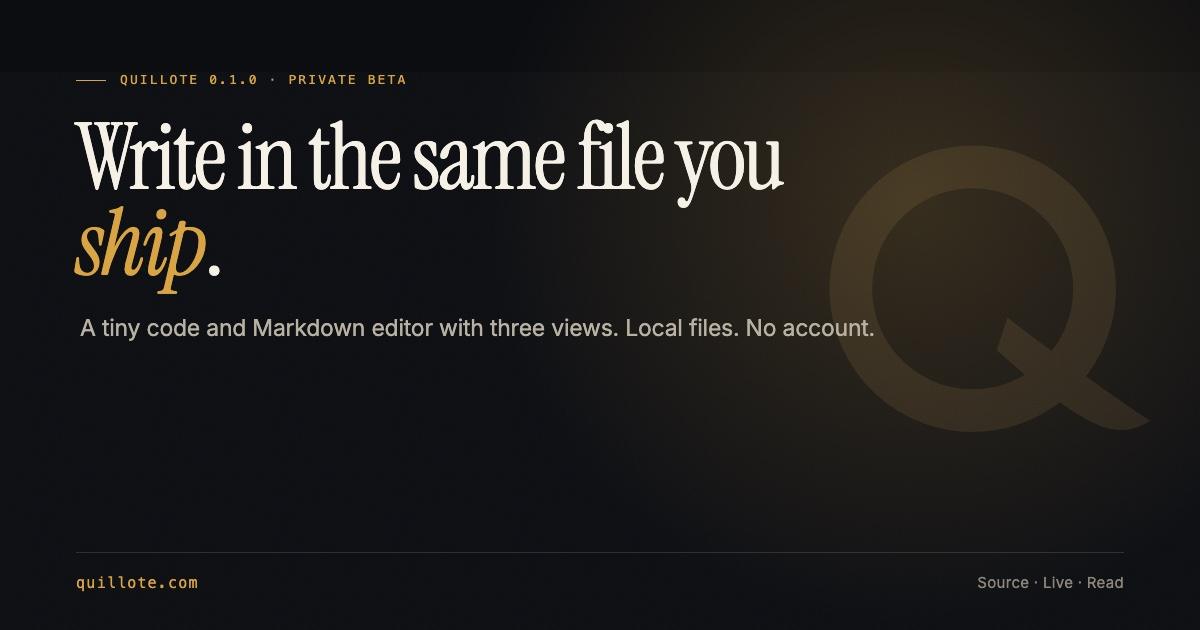
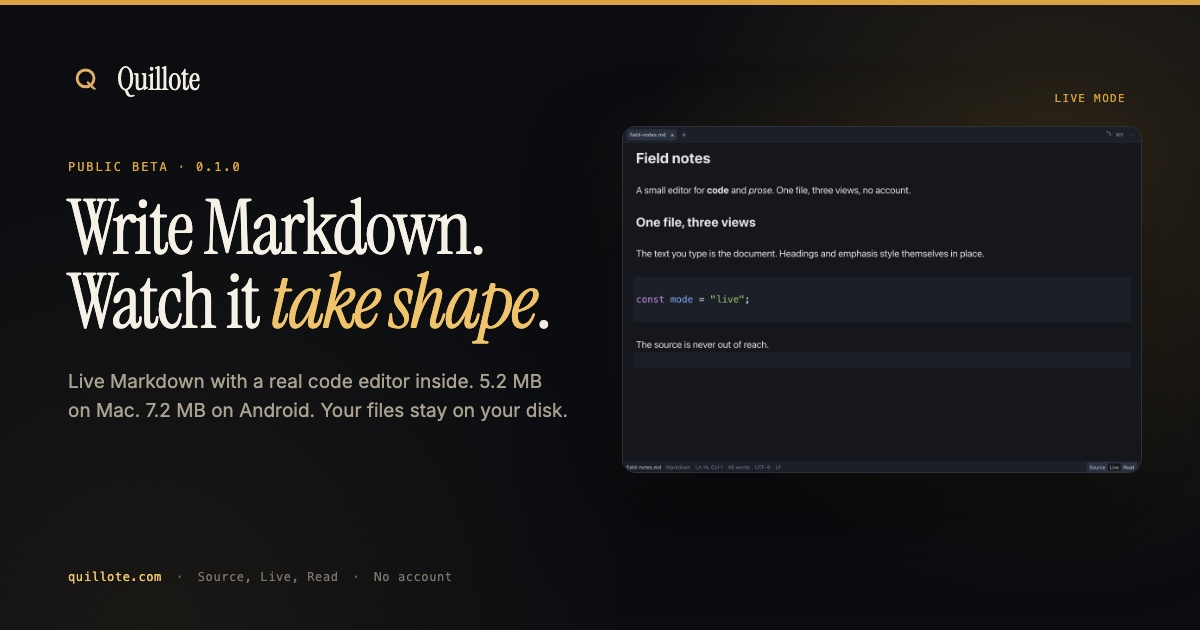
site: Live-first launch, universal DMG and signed APK

diff --git a/changelog/index.html b/changelog/index.html
@@ -4,14 +4,14 @@
   <meta charset="utf-8">
   <meta name="viewport" content="width=device-width, initial-scale=1, viewport-fit=cover">
   <title>Changelog: Quillote</title>
-  <meta name="description" content="Quillote changelog: the 0.1.0 private beta, the three views, themes, mobile file model and the size budgets.">
+  <meta name="description" content="Quillote changelog: the 0.1.0 public beta, the three views, themes, mobile file model and the size budgets.">
   <link rel="canonical" href="https://quillote.com/changelog/">
   <meta name="theme-color" content="#0b0d11">
   <meta name="color-scheme" content="dark">
   <meta property="og:type" content="website">
   <meta property="og:site_name" content="Quillote">
   <meta property="og:title" content="Changelog: Quillote">
-  <meta property="og:description" content="The 0.1.0 private beta and what comes next.">
+  <meta property="og:description" content="The 0.1.0 public beta and what comes next.">
   <meta property="og:url" content="https://quillote.com/changelog/">
   <meta property="og:image" content="https://quillote.com/assets/img/og.jpg">
   <meta name="twitter:card" content="summary_large_image">
@@ -23,7 +23,7 @@
   <link rel="preload" href="../assets/fonts/inter-var.woff2" as="font" type="font/woff2" crossorigin>
   <link rel="stylesheet" href="../assets/css/site.css">
   <script type="application/ld+json">
-  {"@context":"https://schema.org","@graph":[{"@type":"WebPage","@id":"https://quillote.com/changelog/","url":"https://quillote.com/changelog/","name":"Changelog: Quillote","description":"The 0.1.0 private beta and what comes next.","isPartOf":{"@id":"https://quillote.com/#website"},"dateModified":"2026-10-23"},{"@type":"BreadcrumbList","itemListElement":[{"@type":"ListItem","position":1,"name":"Quillote","item":"https://quillote.com/"},{"@type":"ListItem","position":2,"name":"Changelog","item":"https://quillote.com/changelog/"}]}]}
+  {"@context":"https://schema.org","@graph":[{"@type":"WebPage","@id":"https://quillote.com/changelog/","url":"https://quillote.com/changelog/","name":"Changelog: Quillote","description":"The 0.1.0 public beta and what comes next.","isPartOf":{"@id":"https://quillote.com/#website"},"dateModified":"2026-10-23"},{"@type":"BreadcrumbList","itemListElement":[{"@type":"ListItem","position":1,"name":"Quillote","item":"https://quillote.com/"},{"@type":"ListItem","position":2,"name":"Changelog","item":"https://quillote.com/changelog/"}]}]}
   </script>
 </head>
 <body>
@@ -48,7 +48,7 @@
       <div class="page-hero">
         <p class="label"><span>Notes</span> Changelog</p>
         <h1>What changed.</h1>
-        <p class="lead">Small releases, plainly written. The beta is 0.1.0; the next stop is signing and the first public build.</p>
+        <p class="lead">Small releases, plainly written. 0.1.0 is the first public beta. Signing and the stores are next.</p>
         <p class="page-updated">Last updated 23 October 2026</p>
       </div>
 
@@ -56,8 +56,8 @@
         <li class="changelog-item">
           <span class="changelog-date">2026-10-23</span>
           <div>
-            <h2>0.1.0, the private beta</h2>
-            <p>Source, Live and Read for Markdown. Around 100 code languages with lazy highlighting. Night and Ink themes, with Night as the first-run default and a System option. A real command palette, crash snapshots, print, PDF export and HTML copy. iPhone and Android shells with the copy-and-share file model. The macOS DMG is 2.7 MB, the APK is 7.2 MB, and the initial JavaScript is 136.5 KB gzipped.</p>
+            <h2>0.1.0, the public beta</h2>
+            <p>Source, Live and Read for Markdown. Around 100 code languages with lazy highlighting. Night and Ink themes, with Night as the first-run default and a System option. A real command palette, crash snapshots, print, PDF export and HTML copy. iPhone and Android shells with the copy-and-share file model. The universal macOS DMG is 5.2 MB, the signed APK is 7.2 MB, and the initial JavaScript is 141.1 KB gzipped. Live mode is the focus: headings, emphasis, code and links style themselves while the Markdown stays on disk.</p>
           </div>
         </li>
         <li class="changelog-item">
@@ -70,14 +70,14 @@
         <li class="changelog-item">
           <span class="changelog-date">Next</span>
           <div>
-            <h2>Signing, TestFlight, Windows and Linux</h2>
-            <p>Developer ID signing and notarization for the macOS build. A TestFlight build for the iPhone. Public Windows and Linux installers. A read-only table preview for CSV and TSV after 1.0. None of these are done yet; this list is the plan, not a promise of dates.</p>
+            <h2>Signing, the stores, Windows and Linux</h2>
+            <p>Developer ID signing and notarization for the direct macOS build. The Mac App Store build needs sandboxing and security-scoped bookmarks. TestFlight and App Store review for the iPhone. Play Store rollout for Android. CI builds for Windows and Linux. A read-only table preview for CSV and TSV after 1.0. None of these are done yet; this list is the plan, not a promise of dates.</p>
           </div>
         </li>
       </ol>
 
       <div class="page-cta">
-        <a class="btn btn-gold" href="../#download">Download for macOS</a>
+        <a class="btn btn-gold" href="../#download">Download Quillote</a>
         <a class="btn btn-ghost" href="../support/">Support</a>
       </div>
     </div>

diff --git a/og-card.html b/og-card.html
@@ -1,0 +1,55 @@
+<!DOCTYPE html>
+<html lang="en">
+<head>
+<meta charset="utf-8">
+<meta name="robots" content="noindex">
+<title>Quillote social card</title>
+<style>
+  @font-face { font-family: "Instrument Serif"; src: url("assets/fonts/instrument-serif-regular.woff2") format("woff2"); font-weight: 400; font-display: block; }
+  @font-face { font-family: "Instrument Serif"; src: url("assets/fonts/instrument-serif-italic.woff2") format("woff2"); font-style: italic; font-weight: 400; font-display: block; }
+  @font-face { font-family: "Inter"; src: url("assets/fonts/inter-var.woff2") format("woff2"); font-weight: 300 700; font-display: block; }
+  * { box-sizing: border-box; }
+  html, body { width: 1200px; height: 630px; margin: 0; overflow: hidden; }
+  body {
+    position: relative;
+    background: #0b0d11;
+    color: #f3eee3;
+    font-family: "Inter", sans-serif;
+  }
+  body::before {
+    content: "";
+    position: absolute;
+    inset: 0;
+    background:
+      radial-gradient(circle at 88% 30%, rgba(217,164,65,.16), transparent 36%),
+      radial-gradient(circle at 12% 100%, rgba(217,164,65,.07), transparent 40%);
+  }
+  .rule { position: absolute; left: 0; top: 0; width: 100%; height: 5px; background: #d9a441; }
+  .brand { position: absolute; left: 68px; top: 58px; display: flex; align-items: center; gap: 13px; }
+  .brand img { width: 36px; height: 36px; }
+  .brand span { font-family: "Instrument Serif", serif; font-size: 32px; letter-spacing: -.01em; }
+  .copy { position: absolute; left: 68px; top: 160px; width: 580px; }
+  .eyebrow { margin: 0 0 18px; font-family: ui-monospace, monospace; font-size: 12px; letter-spacing: .16em; text-transform: uppercase; color: #d9a441; }
+  h1 { margin: 0; font-family: "Instrument Serif", serif; font-weight: 400; font-size: 76px; line-height: .98; letter-spacing: -.025em; color: #f6f1e6; }
+  h1 em { color: #f0c46a; font-weight: 400; }
+  .sub { margin: 26px 0 0; width: 500px; color: #a9a291; font-size: 19px; line-height: 1.55; }
+  .foot { position: absolute; left: 68px; bottom: 46px; display: flex; align-items: center; gap: 14px; font-family: ui-monospace, monospace; font-size: 12px; letter-spacing: .05em; color: #7d776a; }
+  .foot b { color: #f0c46a; font-weight: 500; }
+  .shot { position: absolute; right: 58px; top: 126px; width: 520px; border: 1px solid rgba(255,255,255,.14); border-radius: 14px; overflow: hidden; box-shadow: 0 40px 90px rgba(0,0,0,.55), 0 0 80px rgba(217,164,65,.07); background: #0d1016; }
+  .shot img { display: block; width: 100%; height: auto; }
+  .tag { position: absolute; right: 74px; top: 92px; font-family: ui-monospace, monospace; font-size: 11px; letter-spacing: .12em; text-transform: uppercase; color: #d9a441; }
+</style>
+</head>
+<body>
+  <div class="rule"></div>
+  <div class="brand"><img src="assets/img/quillote-mark.svg" alt=""><span>Quillote</span></div>
+  <div class="copy">
+    <p class="eyebrow">Public beta · 0.1.0</p>
+    <h1>Write Markdown.<br>Watch it <em>take shape</em>.</h1>
+    <p class="sub">Live Markdown with a real code editor inside. 5.2 MB on Mac. 7.2 MB on Android. Your files stay on your disk.</p>
+  </div>
+  <div class="foot"><b>quillote.com</b><span>·</span><span>Source, Live, Read</span><span>·</span><span>No account</span></div>
+  <span class="tag">Live mode</span>
+  <div class="shot"><img src="assets/img/desktop-live-hero.png" alt=""></div>
+</body>
+</html>

diff --git a/support/index.html b/support/index.html
@@ -48,17 +48,17 @@
       <div class="page-hero">
         <p class="label"><span>Help</span> Support</p>
         <h1>How to get help.</h1>
-        <p class="lead">Quillote is in private beta. Start here for requirements and the file model. If something is still stuck, write to us.</p>
+        <p class="lead">Quillote is in public beta. Start here for requirements and the file model. If something is still stuck, write to us.</p>
         <p class="page-updated">Updated 23 October 2026</p>
       </div>
 
       <div class="prose">
         <h2>Requirements</h2>
         <ul>
-          <li><strong>macOS:</strong> Apple Silicon, macOS 11 or later. The current beta DMG is not signed or notarized.</li>
-          <li><strong>iPhone:</strong> iOS 15 or later. Beta builds are installed through Xcode or TestFlight.</li>
-          <li><strong>Android:</strong> Android 7.0 (API 24) or later. Beta builds are signed for testing.</li>
-          <li><strong>Windows and Linux:</strong> build from source with Tauri 2 and the platform webview.</li>
+          <li><strong>macOS:</strong> Universal build for Apple Silicon and Intel, macOS 10.13 or later. The current beta DMG is not signed or notarized.</li>
+          <li><strong>iPhone:</strong> iOS 15 or later. The App Store build and TestFlight are the next step.</li>
+          <li><strong>Android:</strong> Android 7.0 (API 24) or later. The signed APK is available on the download page; Play Store rollout is next.</li>
+          <li><strong>Windows and Linux:</strong> CI-built installers are attached to the GitHub release. They are unsigned for now.</li>
         </ul>
 
         <h2>Opening the macOS beta</h2>
@@ -69,9 +69,9 @@
 
         <h2>Known issues</h2>
         <ul>
-          <li>The macOS DMG is unsigned in the beta. Signing and notarization are planned before the public release.</li>
-          <li>Windows and Linux installers are not published yet. The source builds are the path for now.</li>
-          <li>The iPhone build needs a granted development profile; it is not a TestFlight build yet.</li>
+          <li>The macOS DMG is unsigned in the public beta. Developer ID signing and notarization are the next step.</li>
+          <li>Windows and Linux installers are CI-built and unsigned. A native smoke test on each platform is still on the list.</li>
+          <li>The iPhone build is App Store-signed; TestFlight and App Store review are the next step.</li>
           <li>On Android, the system picker ignores extension filters. Quillote checks the picked file name before it copies anything and refuses binary files.</li>
           <li>Toggling word wrap or line numbers rebuilds the active view. The text and selection survive; the undo history for that document does not.</li>
         </ul>
@@ -82,7 +82,7 @@
       </div>
 
       <div class="page-cta">
-        <a class="btn btn-gold" href="../#download">Download for macOS</a>
+        <a class="btn btn-gold" href="../#download">Download Quillote</a>
         <a class="btn btn-ghost" href="../privacy/">Privacy</a>
       </div>
     </div>

diff --git a/privacy/index.html b/privacy/index.html
@@ -57,7 +57,7 @@
         <p>Nothing. Quillote has no account system, no analytics SDK, no crash reporter and no advertising. The app reads and writes the files you open and keeps its own preferences and crash snapshots on your device. It does not send them anywhere.</p>
 
         <h2>Network requests</h2>
-        <p>The app makes a network request only when you choose to open a link in your browser. There is no update check in the private beta. A future update mechanism will be opt-in or clearly disclosed before it ships.</p>
+        <p>The app makes a network request only when you choose to open a link in your browser. There is no update check in the public beta. A future update mechanism will be opt-in or clearly disclosed before it ships.</p>
 
         <h2>This website</h2>
         <p>This site is static HTML, CSS and JavaScript. It sets no cookies, loads no analytics, and makes no requests to third-party domains. Fonts are served from this domain. The only external links are to Eulogik and GitHub, and they open only when you click them.</p>
@@ -79,7 +79,7 @@
       </div>
 
       <div class="page-cta">
-        <a class="btn btn-gold" href="../#download">Download for macOS</a>
+        <a class="btn btn-gold" href="../#download">Download Quillote</a>
         <a class="btn btn-ghost" href="../support/">Support</a>
       </div>
     </div>

diff --git a/index.md b/index.md
@@ -1,17 +1,18 @@
 # Quillote
 
-A tiny code and Markdown editor for macOS, iPhone and Android, with Windows and Linux buildable from the same codebase. The private beta is 0.1.0.
+A tiny code and Markdown editor for macOS, iPhone and Android, with Windows and Linux built from the same codebase. The public beta is 0.1.0. Live mode is the hook: headings, emphasis, code and links style themselves in the buffer you are typing in, while the Markdown stays on disk.
 
 - Site: https://quillote.com
 - Built by: [Eulogik](https://eulogik.com)
-- Status: private beta, free
-- Install: macOS DMG (2.7 MB, Apple Silicon), Android APK (7.2 MB), iOS beta
+- Status: public beta, free
+- Install: macOS universal DMG (5.2 MB, Apple Silicon + Intel), signed Android APK (7.2 MB), iOS App Store build (TestFlight next)
+- Release: https://github.com/eulogik/quillote-site/releases/latest
 
 ## What it is
 
 Quillote opens local plain-text files. Markdown gets three views: Source, Live and Read. Code files get Source, with syntax highlighting for around 100 languages. There is no account, no analytics and no telemetry.
 
-The app uses the system webview instead of bundling Chromium. That is why the macOS DMG is 2.7 MB and the Android APK is 7.2 MB. The initial JavaScript is 136.5 KB gzipped. The size budgets are enforced in CI.
+The app uses the system webview instead of bundling Chromium. That is why the universal macOS DMG is 5.2 MB and the Android APK is 7.2 MB. The initial JavaScript is 141.1 KB gzipped and the app CSS is 4.9 KB. The size budgets are enforced in CI.
 
 ## The three views
 
@@ -32,10 +33,10 @@ The app uses the system webview instead of bundling Chromium. That is why the ma
 
 ## Platforms
 
-- macOS: Apple Silicon, macOS 11+. The beta DMG is unsigned; right-click and Open the first time.
-- iPhone: iOS 15+. Beta. TestFlight next.
-- Android: Android 7.0 (API 24)+. Beta.
-- Windows and Linux: the same Tauri codebase; public installers not ready yet.
+- macOS: universal (Apple Silicon + Intel), macOS 10.13+. The beta DMG is unsigned; right-click and Open the first time.
+- iPhone: iOS 15+. App Store-signed; TestFlight and App Store review next.
+- Android: Android 7.0 (API 24)+. The signed APK is available now; Play Store rollout next.
+- Windows and Linux: the same Tauri codebase; CI-built installers are attached to the GitHub release. They are unsigned in the beta.
 
 ## Phone file model
 
@@ -49,7 +50,7 @@ A small code and Markdown editor with Source, Live and Read views. It is built f
 
 ### Is it free?
 
-The private beta is free. Pricing for 1.0 has not been decided.
+The public beta is free. Pricing for 1.0 has not been decided.
 
 ### Does it work offline?
 
@@ -71,9 +72,9 @@ Read mode renders tables and KaTeX math. Live mode keeps tables and math as sour
 
 Yes. The iPhone and Android apps are in beta. Files copy into the app sandbox and leave through the share sheet.
 
-### How is it only 2.7 MB?
+### How is it only 5.2 MB?
 
-It uses the system webview instead of bundling Chromium, ships no UI or editor fonts, and uses a size-tuned Rust release profile. The budgets run in CI.
+It uses the system webview instead of bundling Chromium, ships no UI or editor fonts, and uses a size-tuned Rust release profile. The universal DMG is 5.2 MB. The budgets run in CI.
 
 ### Is the macOS build signed?
 

diff --git a/README.md b/README.md
@@ -48,17 +48,17 @@ Then add `quillote.com` in the Pages settings, wait for the DNS check, and enabl
 - `assets/js/site.js`: the mobile menu and the accessible demo tabs. About 2 KB.
 - `assets/fonts/`: Instrument Serif and Inter, with their licenses. No external font requests.
 - `assets/img/`: the mark, app screenshots, icons and the 1200 x 630 social card.
-- `assets/downloads/`: the current macOS beta DMG. When the app changes, replace this file and update the SHA-256 in `index.html` (the `dmg-hash` element).
+- `assets/downloads/`: the universal macOS beta DMG and the signed Android APK. When the app changes, replace both, then update the SHA-256 lines in `index.html` and this README.
 - `llms.txt` and `index.md`: the AI-readable summary and Markdown mirror.
 - `robots.txt`, `sitemap.xml`, `site.webmanifest`, `.nojekyll`.
 
 ## Copy rules
 
-The product is in private beta. Keep the copy honest:
+The product is in public beta. Keep the copy honest:
 
-- The macOS build is unsigned and Apple Silicon only. Say so.
-- iPhone and Android are beta; do not offer a download that does not exist.
-- Windows and Linux are build-from-source until installers ship.
+- The macOS build is unsigned and universal (Apple Silicon + Intel). Say so.
+- The Android APK is signed and downloadable. The iPhone build is App Store-signed; do not claim it is live in the App Store until it is.
+- Windows and Linux installers are CI-built and unsigned. Only link them once the release workflow is green.
 - The size numbers are measured. Update them only from a real build, and keep the footnote about the category ranges.
 - No em dashes. No growth-hack language. Short sentences, concrete claims.
 
